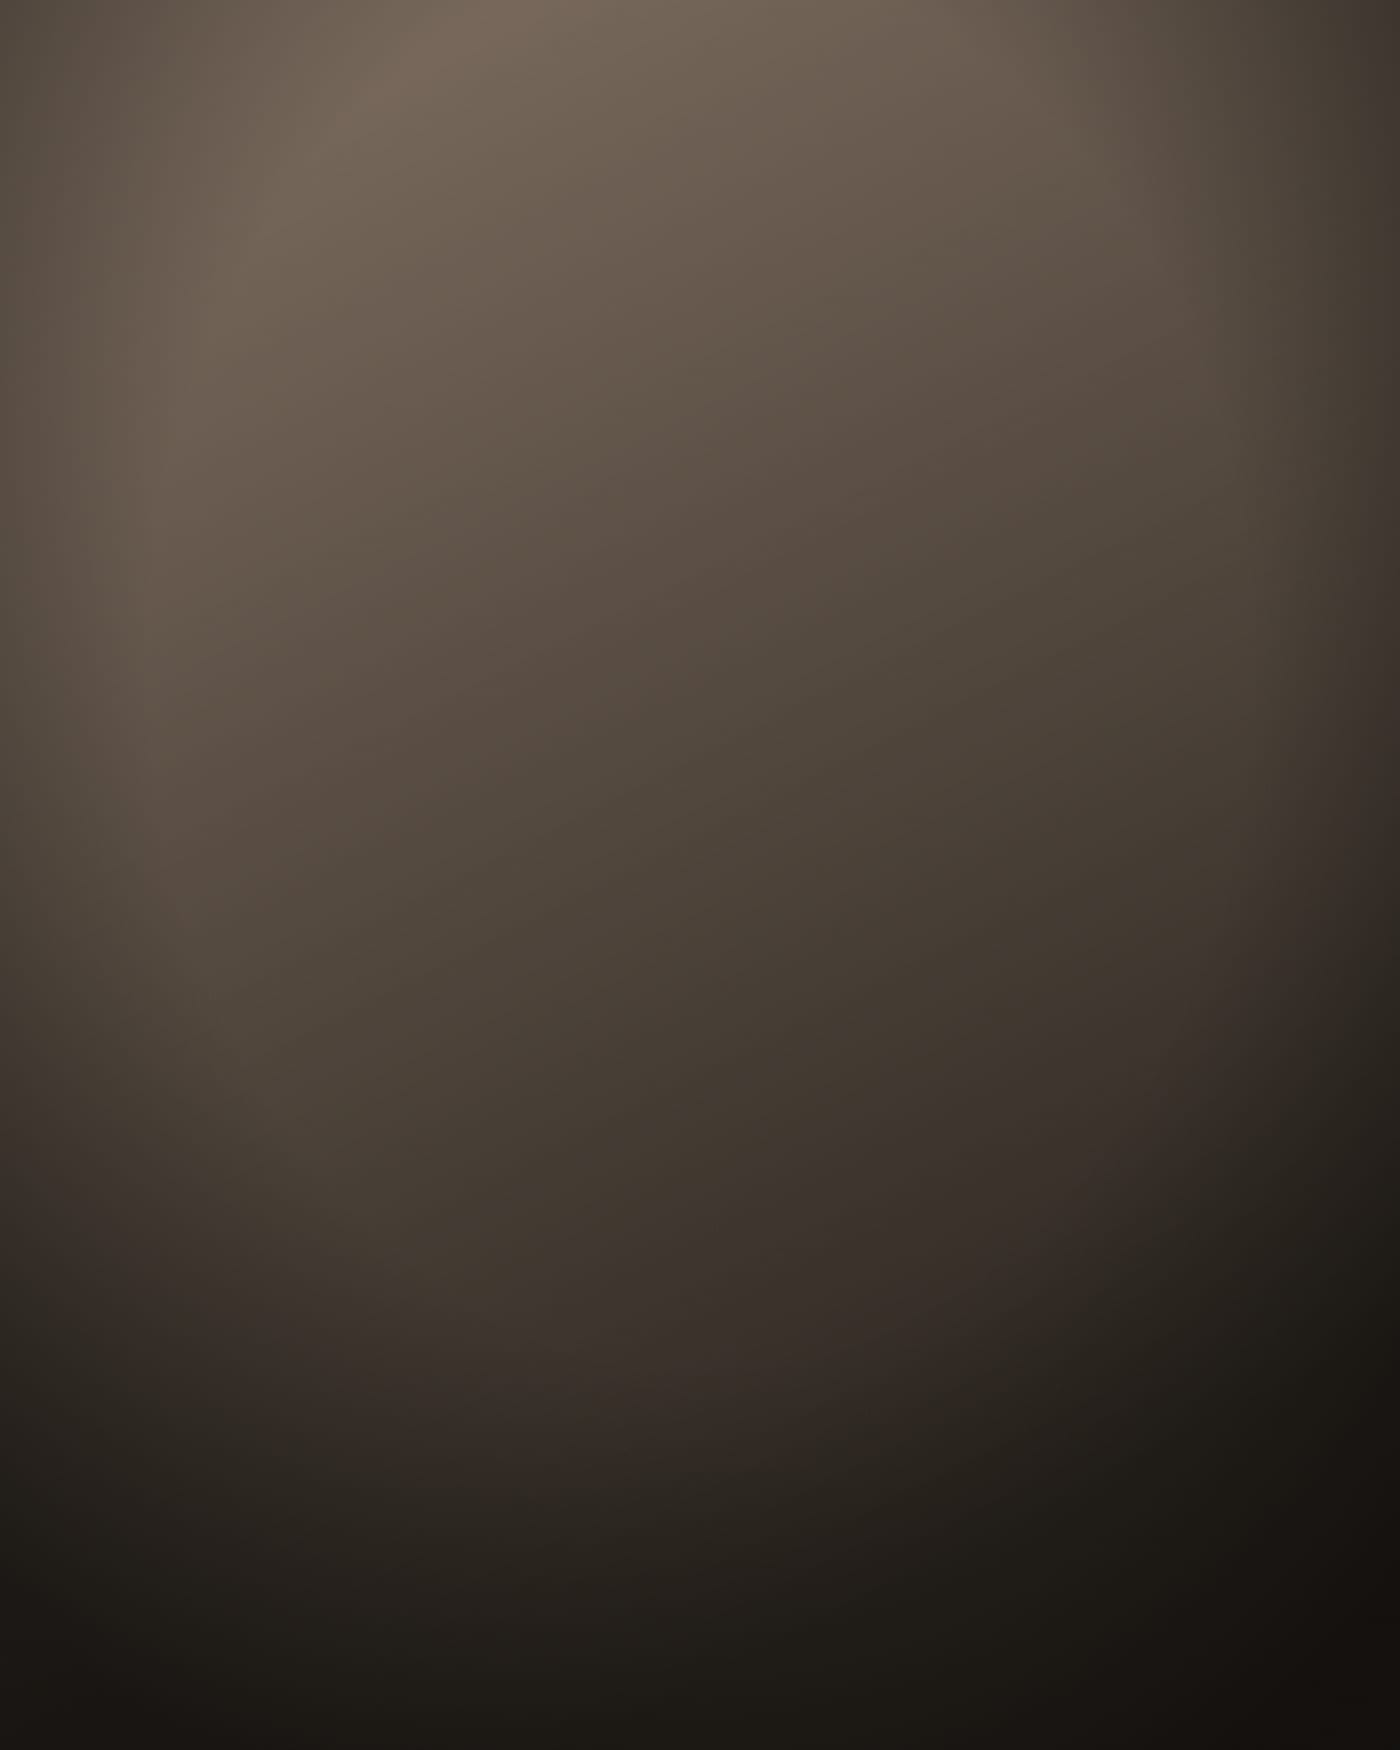
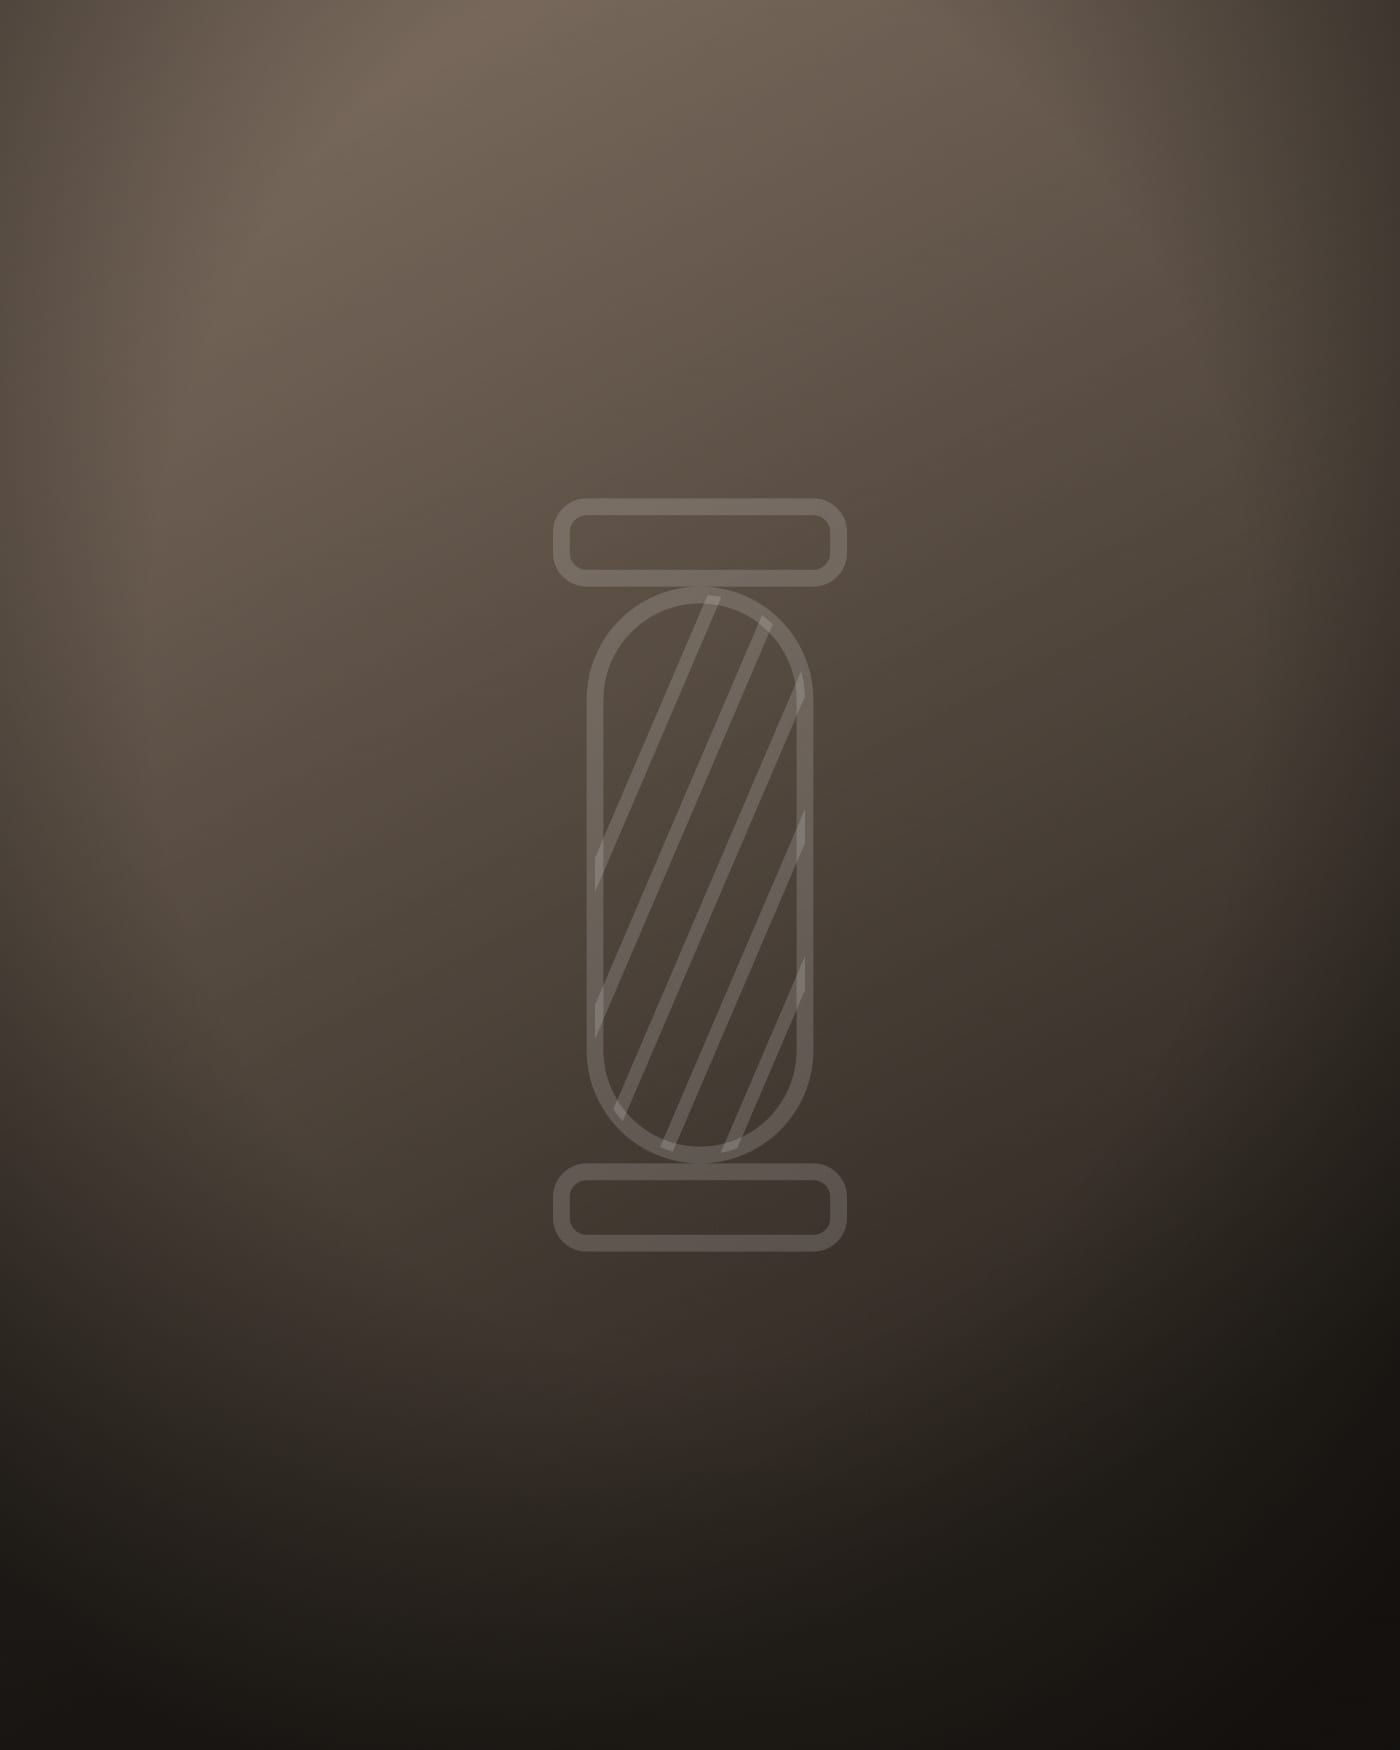
Parallaxe du hero, et des visuels qui disent le métier
Deux demandes de l'exploitant après la mise en ligne.

La photo du hero défile désormais plus lentement que le texte posé dessus, ce
qui creuse la page au lieu de la faire glisser d'un bloc. L'implémentation est
double à dessein : `animation-timeline` là où il existe — le navigateur anime
alors hors du fil principal et rien ne s'exécute au défilement — et un repli
JavaScript ailleurs, Safari en tête. Sans ce repli, l'effet manquerait
précisément sur le téléphone qui sert à montrer le site en clientèle. Les deux
respectent `prefers-reduced-motion`, et le repli suit la préférence même si
elle change en cours de visite.

Les visuels de remplacement, eux, restaient des dégradés nus. Sous le titre
« Notre équipe », trois rectangles bruns se lisent comme un site inachevé.
Chacun porte maintenant un motif dessiné dans le script : buste pour les
portraits, ciseaux, peigne, fût de barbier et blaireau pour la galerie,
rayures pour le fond du hero.

Aucun motif ne représente une personne identifiable. Ce n'est pas un scrupule
abstrait : une photographie de stock, même sous licence permissive, ne
transporte pas l'autorisation de la personne photographiée, et présenter un
inconnu comme employé d'un commerce l'expose autant qu'elle expose
l'exploitant.

Le coupe-choux, tenté d'abord, a été remplacé par le fût : en trait fin et à
faible opacité, sa lame et son manche se lisaient comme deux barres sans
rapport l'une avec l'autre.
[…]

Changed region(s): [[0.3686, 0.2777, 0.6143, 0.7406]]

diff --git a/scripts/gen-placeholders.ts b/scripts/gen-placeholders.ts
@@ -10,7 +10,26 @@ import { repoRoot, info, ok, fail } from "./lib.ts";
  * s'afficher correctement avant la séance photo, pour pouvoir être montré au
  * commerçant. Ils sont volontairement abstraits — jamais une photo trouvée
  * ailleurs, qui poserait un problème de droits et se verrait immédiatement.
+ *
+ * Un dégradé nu remplit cette fonction, mais il ne dit rien du métier : sur un
+ * téléphone, en clientèle, trois rectangles bruns sous le titre « Notre
+ * équipe » se lisent comme un site inachevé. Chaque visuel porte donc un motif
+ * dessiné ici même — silhouette, ciseaux, peigne, fût de barbier.
+ *
+ * Aucun de ces motifs ne représente une personne identifiable, et c'est
+ * délibéré. Une photographie de stock, même sous licence permissive, ne
+ * transporte pas l'autorisation de la personne photographiée : présenter un
+ * inconnu comme employé d'un commerce l'expose, et expose l'exploitant.
  */
+
+export type Motif =
+  | "silhouette"
+  | "ciseaux"
+  | "peigne"
+  | "fut"
+  | "blaireau"
+  | "rayures"
+  | "aucun";
 
 export interface PlaceholderSpec {
   file: string;
@@ -18,9 +37,159 @@ export interface PlaceholderSpec {
   height: number;
   /** Teinte en degrés, pour varier les images d'une même galerie. */
   hue: number;
+  /** Motif dessiné par-dessus le dégradé. Absent : dégradé seul. */
+  motif?: Motif;
 }
 
-function svg({ width, height, hue }: PlaceholderSpec): string {
+/**
+ * Le motif, en clair très peu opaque : il doit se deviner, pas s'imposer.
+ * Un remplacement qui attire l'œil plus que le contenu fausse le jugement sur
+ * la mise en page — et c'est pour juger la mise en page qu'il existe.
+ */
+function dessin(motif: Motif, w: number, h: number): string {
+  const cx = w / 2;
+  const cy = h / 2;
+  // Toutes les formes sont dimensionnées sur la plus petite dimension : le
+  // même motif tient dans un portrait vertical comme dans un hero panoramique.
+  const u = Math.min(w, h);
+  const trait = Math.max(2, u * 0.012);
+  const encre = `stroke="#fff" stroke-opacity="0.16" fill="none" stroke-width="${trait}" stroke-linecap="round" stroke-linejoin="round"`;
+
+  switch (motif) {
+    /*
+     * Buste de trois quarts, sans un seul trait de visage. La forme suffit à
+     * faire lire « portrait » à l'emplacement d'un portrait ; y ajouter des
+     * yeux donnerait un personnage, donc une identité, donc une question.
+     */
+    case "silhouette": {
+      const tete = u * 0.16;
+      const centreTete = cy - u * 0.12;
+      // Les épaules montent jusqu'à mordre légèrement sur le bas de la tête :
+      // un intervalle, même de quelques pixels, détache le cercle du buste et
+      // le résultat cesse d'être un portrait pour devenir une icône.
+      const sommetEpaules = centreTete + tete * 0.88;
+      // Les épaules débordent volontairement du cadre : seule la portion
+      // centrale de l'arc reste visible, et c'est elle qui se lit comme une
+      // carrure. Un arc contenu dans la largeur donnerait un ovale, pas un
+      // buste — c'est le cadrage serré qui fait le portrait.
+      const largeur = u * 0.62;
+      const hauteurBuste = h - sommetEpaules;
+      // L'opacité porte sur le groupe, pas sur chaque forme : appliquée forme
+      // par forme, elle s'additionnerait là où la tête recouvre les épaules et
+      // dessinerait un croissant clair à la jonction.
+      return `
+  <g fill="#fff" opacity="0.12">
+    <circle cx="${cx}" cy="${centreTete}" r="${tete}"/>
+    <path d="M ${cx - largeur} ${h}
+             a ${largeur} ${hauteurBuste} 0 0 1 ${largeur * 2} 0 Z"/>
+  </g>`;
+    }
+
+    case "ciseaux": {
+      const r = u * 0.07;
+      const bas = cy + u * 0.2;
+      const haut = cy - u * 0.22;
+      // Les deux lames étant symétriques, elles se croisent à mi-hauteur de
+      // leur trajet. Poser le rivet à l'estime le décale visiblement du
+      // croisement, et l'objet cesse d'être un outil articulé.
+      const rivet = (bas - r + haut) / 2;
+      return `
+  <g ${encre}>
+    <circle cx="${cx - u * 0.12}" cy="${bas}" r="${r}"/>
+    <circle cx="${cx + u * 0.12}" cy="${bas}" r="${r}"/>
+    <line x1="${cx - u * 0.12}" y1="${bas - r}" x2="${cx + u * 0.1}" y2="${haut}"/>
+    <line x1="${cx + u * 0.12}" y1="${bas - r}" x2="${cx - u * 0.1}" y2="${haut}"/>
+    <circle cx="${cx}" cy="${rivet}" r="${trait * 0.9}" fill="#fff" fill-opacity="0.16"/>
+  </g>`;
+    }
+
+    case "peigne": {
+      const l = u * 0.46;
+      const dos = cy - u * 0.06;
+      const dents = 13;
+      const pas = l / (dents - 1);
+      const traits = Array.from({ length: dents }, (_, i) => {
+        const x = cx - l / 2 + i * pas;
+        return `<line x1="${x}" y1="${dos}" x2="${x}" y2="${dos + u * 0.17}"/>`;
+      }).join("\n    ");
+      return `
+  <g ${encre}>
+    <line x1="${cx - l / 2}" y1="${dos}" x2="${cx + l / 2}" y2="${dos}"/>
+    ${traits}
+  </g>`;
+    }
+
+    /*
+     * Fût de barbier. Un coupe-choux avait été tenté d'abord : en trait fin et
+     * à cette opacité, sa lame et son manche se lisaient comme deux barres
+     * sans rapport. Le fût, lui, tient dans une silhouette unique que tout le
+     * monde reconnaît, et c'est bien l'enseigne du métier.
+     */
+    case "fut": {
+      const larg = u * 0.15;
+      const haut = u * 0.4;
+      const x = cx - larg / 2;
+      const y = cy - haut / 2;
+      const embout = larg * 1.32;
+      const pas = larg * 0.3;
+      // Les rayures dépassent du corps et sont rognées par lui : les calculer
+      // pour qu'elles s'arrêtent pile aux bords donnerait des extrémités
+      // biseautées, jamais tout à fait justes.
+      const rayures = Array.from(
+        { length: Math.ceil((larg + haut) / pas) },
+        (_, i) =>
+          `<line x1="${x - larg + i * pas}" y1="${y + haut + larg}" x2="${x - larg + i * pas + larg * 2}" y2="${y - larg}"/>`,
+      ).join("\n      ");
+      return `
+  <defs>
+    <clipPath id="fut">
+      <rect x="${x}" y="${y}" width="${larg}" height="${haut}" rx="${larg / 2}"/>
+    </clipPath>
+  </defs>
+  <g ${encre}>
+    <rect x="${x}" y="${y}" width="${larg}" height="${haut}" rx="${larg / 2}"/>
+    <g clip-path="url(#fut)" stroke-width="${trait * 0.8}">
+      ${rayures}
+    </g>
+    <rect x="${cx - embout / 2}" y="${y - larg * 0.42}" width="${embout}" height="${larg * 0.34}" rx="${larg * 0.12}"/>
+    <rect x="${cx - embout / 2}" y="${y + haut + larg * 0.08}" width="${embout}" height="${larg * 0.34}" rx="${larg * 0.12}"/>
+  </g>`;
+    }
+
+    case "blaireau": {
+      const larg = u * 0.16;
+      return `
+  <g ${encre}>
+    <path d="M ${cx - larg} ${cy}
+             a ${larg} ${u * 0.13} 0 0 1 ${larg * 2} 0 Z"/>
+    <path d="M ${cx - larg * 0.72} ${cy}
+             l ${larg * 0.2} ${u * 0.24}
+             l ${larg * 0.84} 0
+             l ${larg * 0.2} ${-u * 0.24} Z"/>
+  </g>`;
+    }
+
+    /* Rappel du fût de barbier, couché et très étiré : lisible en fond de
+       hero, où un objet centré entrerait en concurrence avec le titre. */
+    case "rayures": {
+      const pas = u * 0.14;
+      const lignes = Math.ceil((w + h) / pas);
+      return `
+  <g stroke="#fff" stroke-opacity="0.05" stroke-width="${u * 0.045}">
+    ${Array.from(
+      { length: lignes },
+      (_, i) =>
+        `<line x1="${i * pas - h}" y1="${h}" x2="${i * pas}" y2="0"/>`,
+    ).join("\n    ")}
+  </g>`;
+    }
+
+    default:
+      return "";
+  }
+}
+
+function svg({ width, height, hue, motif = "aucun" }: PlaceholderSpec): string {
   // Assez clairs pour rester lisibles sur un thème sombre : un remplacement
   // invisible empêche de juger la mise en page avant la séance photo.
   const light = `hsl(${hue}, 14%, 44%)`;
@@ -41,6 +210,7 @@ function svg({ width, height, hue }: PlaceholderSpec): string {
     </filter>
   </defs>
   <rect width="${width}" height="${height}" fill="url(#g)"/>
+  ${dessin(motif, width, height)}
   <rect width="${width}" height="${height}" filter="url(#n)" opacity="0.06"/>
   <rect width="${width}" height="${height}" fill="url(#v)"/>
 </svg>`;
@@ -60,19 +230,29 @@ export async function generatePlaceholders(
 
 /** Jeu standard : un hero, six photos de galerie, trois portraits. */
 export function defaultSpecs(): PlaceholderSpec[] {
+  const outils: Motif[] = [
+    "ciseaux",
+    "peigne",
+    "fut",
+    "blaireau",
+    "ciseaux",
+    "peigne",
+  ];
   return [
-    { file: "hero.jpg", width: 2400, height: 1600, hue: 24 },
+    { file: "hero.jpg", width: 2400, height: 1600, hue: 24, motif: "rayures" },
     ...Array.from({ length: 6 }, (_, i) => ({
       file: `galerie-${i + 1}.jpg`,
       width: 1400,
       height: 1750,
       hue: 16 + i * 6,
+      motif: outils[i]!,
     })),
     ...Array.from({ length: 3 }, (_, i) => ({
       file: `equipe-${i + 1}.jpg`,
       width: 900,
       height: 1200,
       hue: 22 + i * 8,
+      motif: "silhouette" as const,
     })),
   ];
 }

diff --git a/apps/template/src/styles/global.css b/apps/template/src/styles/global.css
@@ -501,6 +501,46 @@ body[data-glass="true"] .nav[data-menu="open"] {
   );
 }
 
+/*
+ * Parallaxe du hero : la photo défile plus lentement que le texte posé
+ * dessus, ce qui creuse la page au lieu de la faire glisser d'un bloc.
+ *
+ * L'agrandissement n'est pas décoratif : sans lui, déplacer l'image
+ * découvrirait le fond en haut ou en bas du cadre. 12 % de marge pour 6 % de
+ * déplacement de part et d'autre, donc jamais de bord vide.
+ *
+ * Deux implémentations pour un seul effet. Celle-ci ne coûte rien : le
+ * navigateur anime hors du fil principal, et rien ne s'exécute au défilement.
+ * Les navigateurs qui l'ignorent reçoivent le repli de Hero.astro, lequel se
+ * tait de lui-même dès que cette règle s'applique.
+ */
+@media (prefers-reduced-motion: no-preference) {
+  @supports (animation-timeline: view()) {
+    .hero__media img {
+      animation: hero-parallaxe linear both;
+      animation-timeline: view();
+      animation-range: entry 0% exit 100%;
+    }
+
+    @keyframes hero-parallaxe {
+      from {
+        transform: translateY(-6%) scale(1.12);
+      }
+      to {
+        transform: translateY(6%) scale(1.12);
+      }
+    }
+  }
+}
+
+/* Le repli JavaScript pose cet attribut avant de rien déplacer :
+   l'agrandissement doit être en place dès le départ, sinon l'image saute d'un
+   cran au premier mouvement. */
+.hero__media[data-parallaxe] img {
+  transform: scale(1.12);
+  will-change: transform;
+}
+
 .hero__content {
   padding-block: clamp(4rem, 12vh, 8rem);
 }
